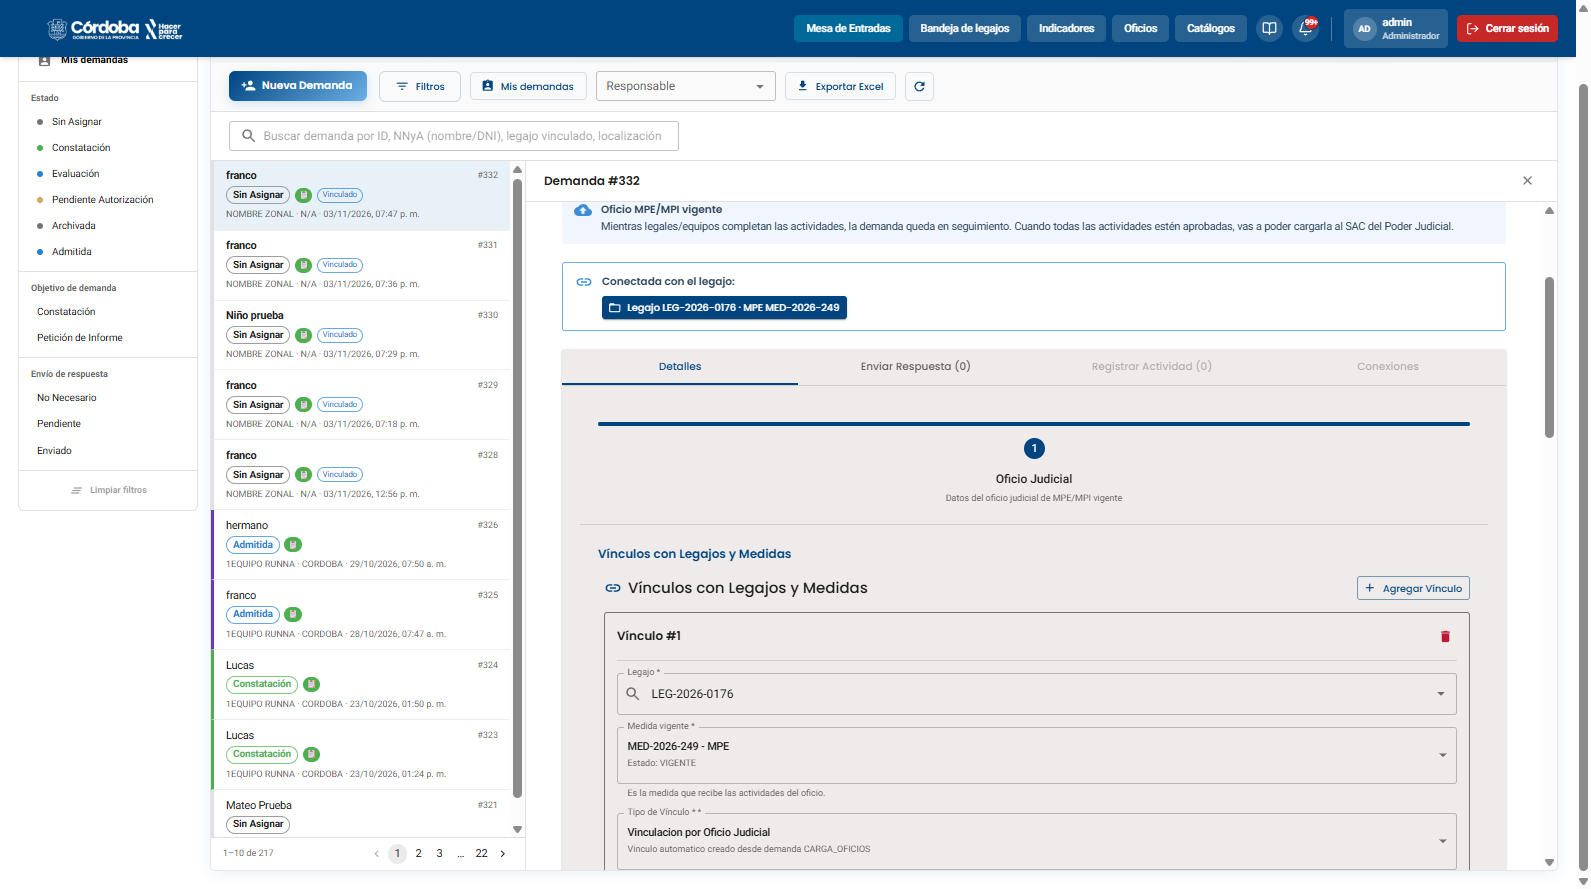
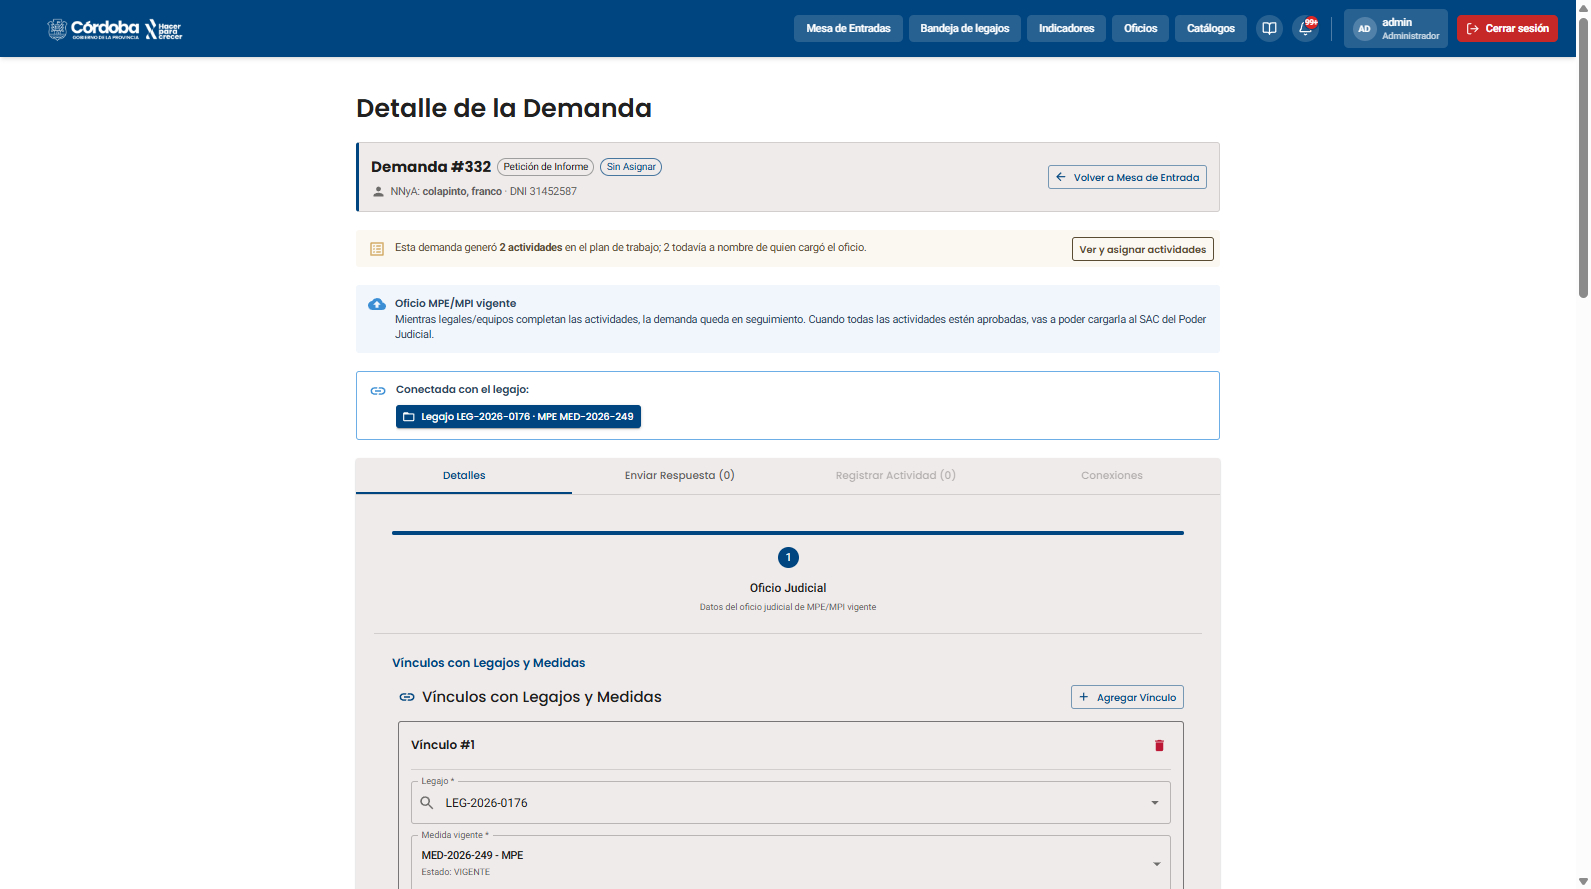
Tutorial 11b: capturas en pantalla completa y paso del botón Pantalla completa

diff --git a/11b-oficio-mpe-mpi-vigente.html b/11b-oficio-mpe-mpi-vigente.html
@@ -34,7 +34,7 @@
   <div class="progress-wrap">
     <div class="progress-track"><div class="progress-fill" id="progressFill"></div></div>
     <div class="progress-label">
-      <span id="progressText">Paso 1 de 7</span>
+      <span id="progressText">Paso 1 de 8</span>
       <span>Oficio de MPE / MPI vigente</span>
     </div>
   </div>
@@ -113,20 +113,20 @@
       <div class="step-media">
         <div class="browser-frame">
           <div class="bf-bar"><span></span><span></span><span></span></div>
-          <img class="zoomable" src="0162-oficio-mpe-demanda-abierta.png" alt="Demanda abierta con vínculo">
+          <img class="zoomable" src="0170-panel-lateral-boton-pantalla-completa.png" alt="Panel lateral con el botón Pantalla completa">
         </div>
       </div>
       <div class="step-info">
         <div class="step-header">
           <div class="step-number">4</div>
-          <div class="step-title">Abrir la demanda y vincularla</div>
+          <div class="step-title">Abrir la demanda: panel lateral o pantalla completa</div>
         </div>
         <div class="step-content">
-          Abrí la demanda desde la bandeja. Con <strong>Agregar Vínculo</strong> buscá el legajo y elegí la <strong>Medida vigente</strong> (solo aparecen las vigentes; si el legajo tiene una sola, se elige sola, y si tiene varias, elegí a cuál corresponde el oficio). El <strong>tipo de vínculo</strong> (oficio judicial) y una justificación ya vienen completos y se pueden editar.
+          Al hacer clic en una demanda de la bandeja se abre un <strong>panel lateral</strong> que deja ver la lista a la izquierda. Arriba a la derecha del detalle está el botón <strong>Pantalla completa</strong>: abre la demanda en una página completa, con más espacio. Usalo cuando necesites ver todo el formulario; lo mismo pasa con los legajos de la Bandeja de legajos. Para cerrar el panel usá la X de arriba.
         </div>
-        <div class="capture-reference">📸 Captura: 0162-oficio-mpe-demanda-abierta.png</div>
+        <div class="capture-reference">📸 Captura: 0170-panel-lateral-boton-pantalla-completa.png</div>
         <div class="step-tags">
-          <span class="tag action">Acción</span>
+          <span class="tag info">Información</span>
         </div>
       </div>
     </div>
@@ -135,12 +135,34 @@
       <div class="step-media">
         <div class="browser-frame">
           <div class="bf-bar"><span></span><span></span><span></span></div>
-          <img class="zoomable" src="0163-oficio-mpe-clasificacion-junto-vinculo.png" alt="Clasificación del oficio">
+          <img class="zoomable" src="0162-oficio-mpe-demanda-abierta.png" alt="Demanda abierta con vínculo">
         </div>
       </div>
       <div class="step-info">
         <div class="step-header">
           <div class="step-number">5</div>
+          <div class="step-title">Abrir la demanda y vincularla</div>
+        </div>
+        <div class="step-content">
+          Con la demanda abierta (mejor en <strong>Pantalla completa</strong>), usá <strong>Agregar Vínculo</strong> buscá el legajo y elegí la <strong>Medida vigente</strong> (solo aparecen las vigentes; si el legajo tiene una sola, se elige sola, y si tiene varias, elegí a cuál corresponde el oficio). El <strong>tipo de vínculo</strong> (oficio judicial) y una justificación ya vienen completos y se pueden editar.
+        </div>
+        <div class="capture-reference">📸 Captura: 0162-oficio-mpe-demanda-abierta.png</div>
+        <div class="step-tags">
+          <span class="tag action">Acción</span>
+        </div>
+      </div>
+    </div>
+
+    <div class="step-view" data-step="6">
+      <div class="step-media">
+        <div class="browser-frame">
+          <div class="bf-bar"><span></span><span></span><span></span></div>
+          <img class="zoomable" src="0163-oficio-mpe-clasificacion-junto-vinculo.png" alt="Clasificación del oficio">
+        </div>
+      </div>
+      <div class="step-info">
+        <div class="step-header">
+          <div class="step-number">6</div>
           <div class="step-title">Elegir la categoría y el tipo de oficio</div>
         </div>
         <div class="step-content">
@@ -154,7 +176,7 @@
       </div>
     </div>
 
-    <div class="step-view" data-step="6">
+    <div class="step-view" data-step="7">
       <div class="step-media">
         <div class="browser-frame">
           <div class="bf-bar"><span></span><span></span><span></span></div>
@@ -163,7 +185,7 @@
       </div>
       <div class="step-info">
         <div class="step-header">
-          <div class="step-number">6</div>
+          <div class="step-number">7</div>
           <div class="step-title">Si falta algo, el error aparece en el campo</div>
         </div>
         <div class="step-content">
@@ -176,7 +198,7 @@
       </div>
     </div>
 
-    <div class="step-view" data-step="7">
+    <div class="step-view" data-step="8">
       <div class="step-media">
         <div class="browser-frame">
           <div class="bf-bar"><span></span><span></span><span></span></div>
@@ -185,7 +207,7 @@
       </div>
       <div class="step-info">
         <div class="step-header">
-          <div class="step-number">7</div>
+          <div class="step-number">8</div>
           <div class="step-title">Resultado: actividades en la medida</div>
         </div>
         <div class="step-content">
@@ -219,7 +241,7 @@
 </footer>
 
 <script>
-  const totalSteps = 7;
+  const totalSteps = 8;
   let currentStep = 1;
 
   function renderDots() {
